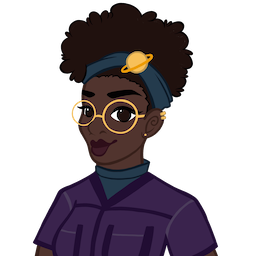
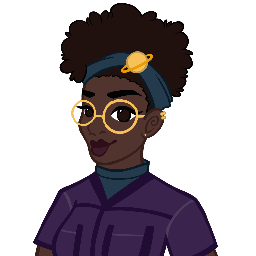
Replace NPC image and make minor dialog changes

diff --git a/web/lib/dialog_trees/level_movement.ts b/web/lib/dialog_trees/level_movement.ts
@@ -26,19 +26,28 @@ export const NODES: {
     choiceIds: ["request_explain_ui", "level_movement_end_early"],
   },
   explain_code_editor: {
-    text: `The code editor is on the left side of your screen. When you are ready to run your code, press the "Run" button.`,
+    text:
+      `The code editor is on the left side of your screen. When you are ready to run your ` +
+      `code, press the "Run" button.`,
     choiceIds: ["ack_code_editor", "level_movement_end"],
   },
   explain_board: {
-    text: "On the right side of your screen is a live video feed. You should see G.R.O.V.E.R. there now. When you run your code, G.R.O.V.E.R will move around and perform various actions.",
+    text:
+      "On the right side of your screen is a live video feed. You should see G.R.O.V.E.R. " +
+      "there now. When you run your code, G.R.O.V.E.R will move around and perform various actions.",
     choiceIds: ["ack_board", "level_movement_end"],
   },
   explain_objective: {
-    text: "Near the top of your screen, you'll see the current objective. Usually you need to move G.R.O.V.E.R. to a certain location, but sometimes you need to do something else.",
+    text:
+      "Near the top of your screen, you'll see the current objective. Usually you need to " +
+      "move G.R.O.V.E.R. to a certain location, but sometimes you need to do something else.",
     choiceIds: ["ack_objective", "level_movement_end"],
   },
   explain_control_bar: {
-    text: `After pressing the "Run" button, you can pause, step forward, or step backward through the code. If you ever get confused about what your code is doing, pausing and going one step at a time can be a great way to wrap your head around it!`,
+    text:
+      `After pressing the "Run" button, you can pause, step forward, or step backward ` +
+      `through the code. If you ever get confused about what your code is doing, pausing ` +
+      `and going one step at a time can be a great way to wrap your head around it!`,
     choiceIds: ["ack_control_bar", "level_movement_end"],
   },
   explanation_end: {
@@ -61,7 +70,7 @@ export const CHOICES: {
     nextId: "explain_code_editor",
   },
   ack_code_editor: {
-    text: "Got it. What else?",
+    text: "Gotcha.",
     nextId: "explain_board",
   },
   ack_board: {

diff --git a/web/lib/dialog_trees/intro.ts b/web/lib/dialog_trees/intro.ts
@@ -28,12 +28,16 @@ export const NODES: { [key in NodeIds]: DialogNode } = {
     choiceIds: ["where_are_you", "who_are_you"],
   },
   where_i_am: {
-    text: "I'm calling in from Moonbase Bravo, on the southern hemisphere of Elara. It's a small base but I'm happy to call it home, and you can't beat the view!",
+    text:
+      "I'm calling in from Moonbase Bravo, on the southern hemisphere of Elara. " +
+      "It's a small base but I'm happy to call it home, and you can't beat the view!",
     choiceIds: [],
     nextId: "offer_intro_end",
   },
   who_i_am: {
-    text: "Well, you already know my name. I'm an engineer here at Ganymede Robotics. I'm also responsible for training new interns, which includes you!",
+    text:
+      "Well, you already know my name. I'm an engineer here at Ganymede Robotics. " +
+      "I'm also responsible for training new interns, which includes you!",
     choiceIds: [],
     nextId: "offer_intro_end",
   },

diff --git a/web/lib/dialog_trees/level_fuel_part_one.ts b/web/lib/dialog_trees/level_fuel_part_one.ts
@@ -7,12 +7,16 @@ export const NODES: {
   [key in NodeIds]: DialogNode;
 } = {
   explain_fuel_1: {
-    text: "That little number next to the rover is the current amount fuel. Moving the rover uses 1 fuel for each space.",
+    text:
+      "That little number next to G.R.O.V.E.R. is the current amount fuel. " +
+      "Moving G.R.O.V.E.R. uses 1 fuel for each space.",
     choiceIds: [],
     nextId: "explain_fuel_2",
   },
   explain_fuel_2: {
-    text: "If you run out of fuel, you will fail the objective. You can pick up additional fuel by simply moving into a space that contains it.",
+    text:
+      "If you run out of fuel, you will fail the objective. You can" +
+      "pick up additional fuel by simply moving into a space that contains it.",
     choiceIds: ["ack_fuel"],
   },
 };

diff --git a/web/lib/dialog_trees/level_gates.ts b/web/lib/dialog_trees/level_gates.ts
@@ -7,7 +7,9 @@ export const NODES: {
   [key in NodeIds]: DialogNode;
 } = {
   explain_gates: {
-    text: `Looks like a locked gate is blocking the way! To open the gate, move the rover next to it, then say the password using the "say" function.`,
+    text:
+      `Looks like a locked gate is blocking the way! To open the gate, ` +
+      `move G.R.O.V.E.R. next to it, then say the password using the "say" function.`,
     choiceIds: ["request_password"],
   },
   provide_password: {

diff --git a/web/lib/dialog_trees/level_gate_and_terminal.ts b/web/lib/dialog_trees/level_gate_and_terminal.ts
@@ -25,7 +25,7 @@ export const NODES: {
     nextId: "explain_data_terminals_3",
   },
   explain_data_terminals_3: {
-    text: `To read from a data terminal, move the rover next to it and use the "read_data" function.`,
+    text: `To read from a data terminal, move G.R.O.V.E.R. next to it and use the "read_data" function.`,
     choiceIds: ["ack_data_terminals"],
   },
 };
